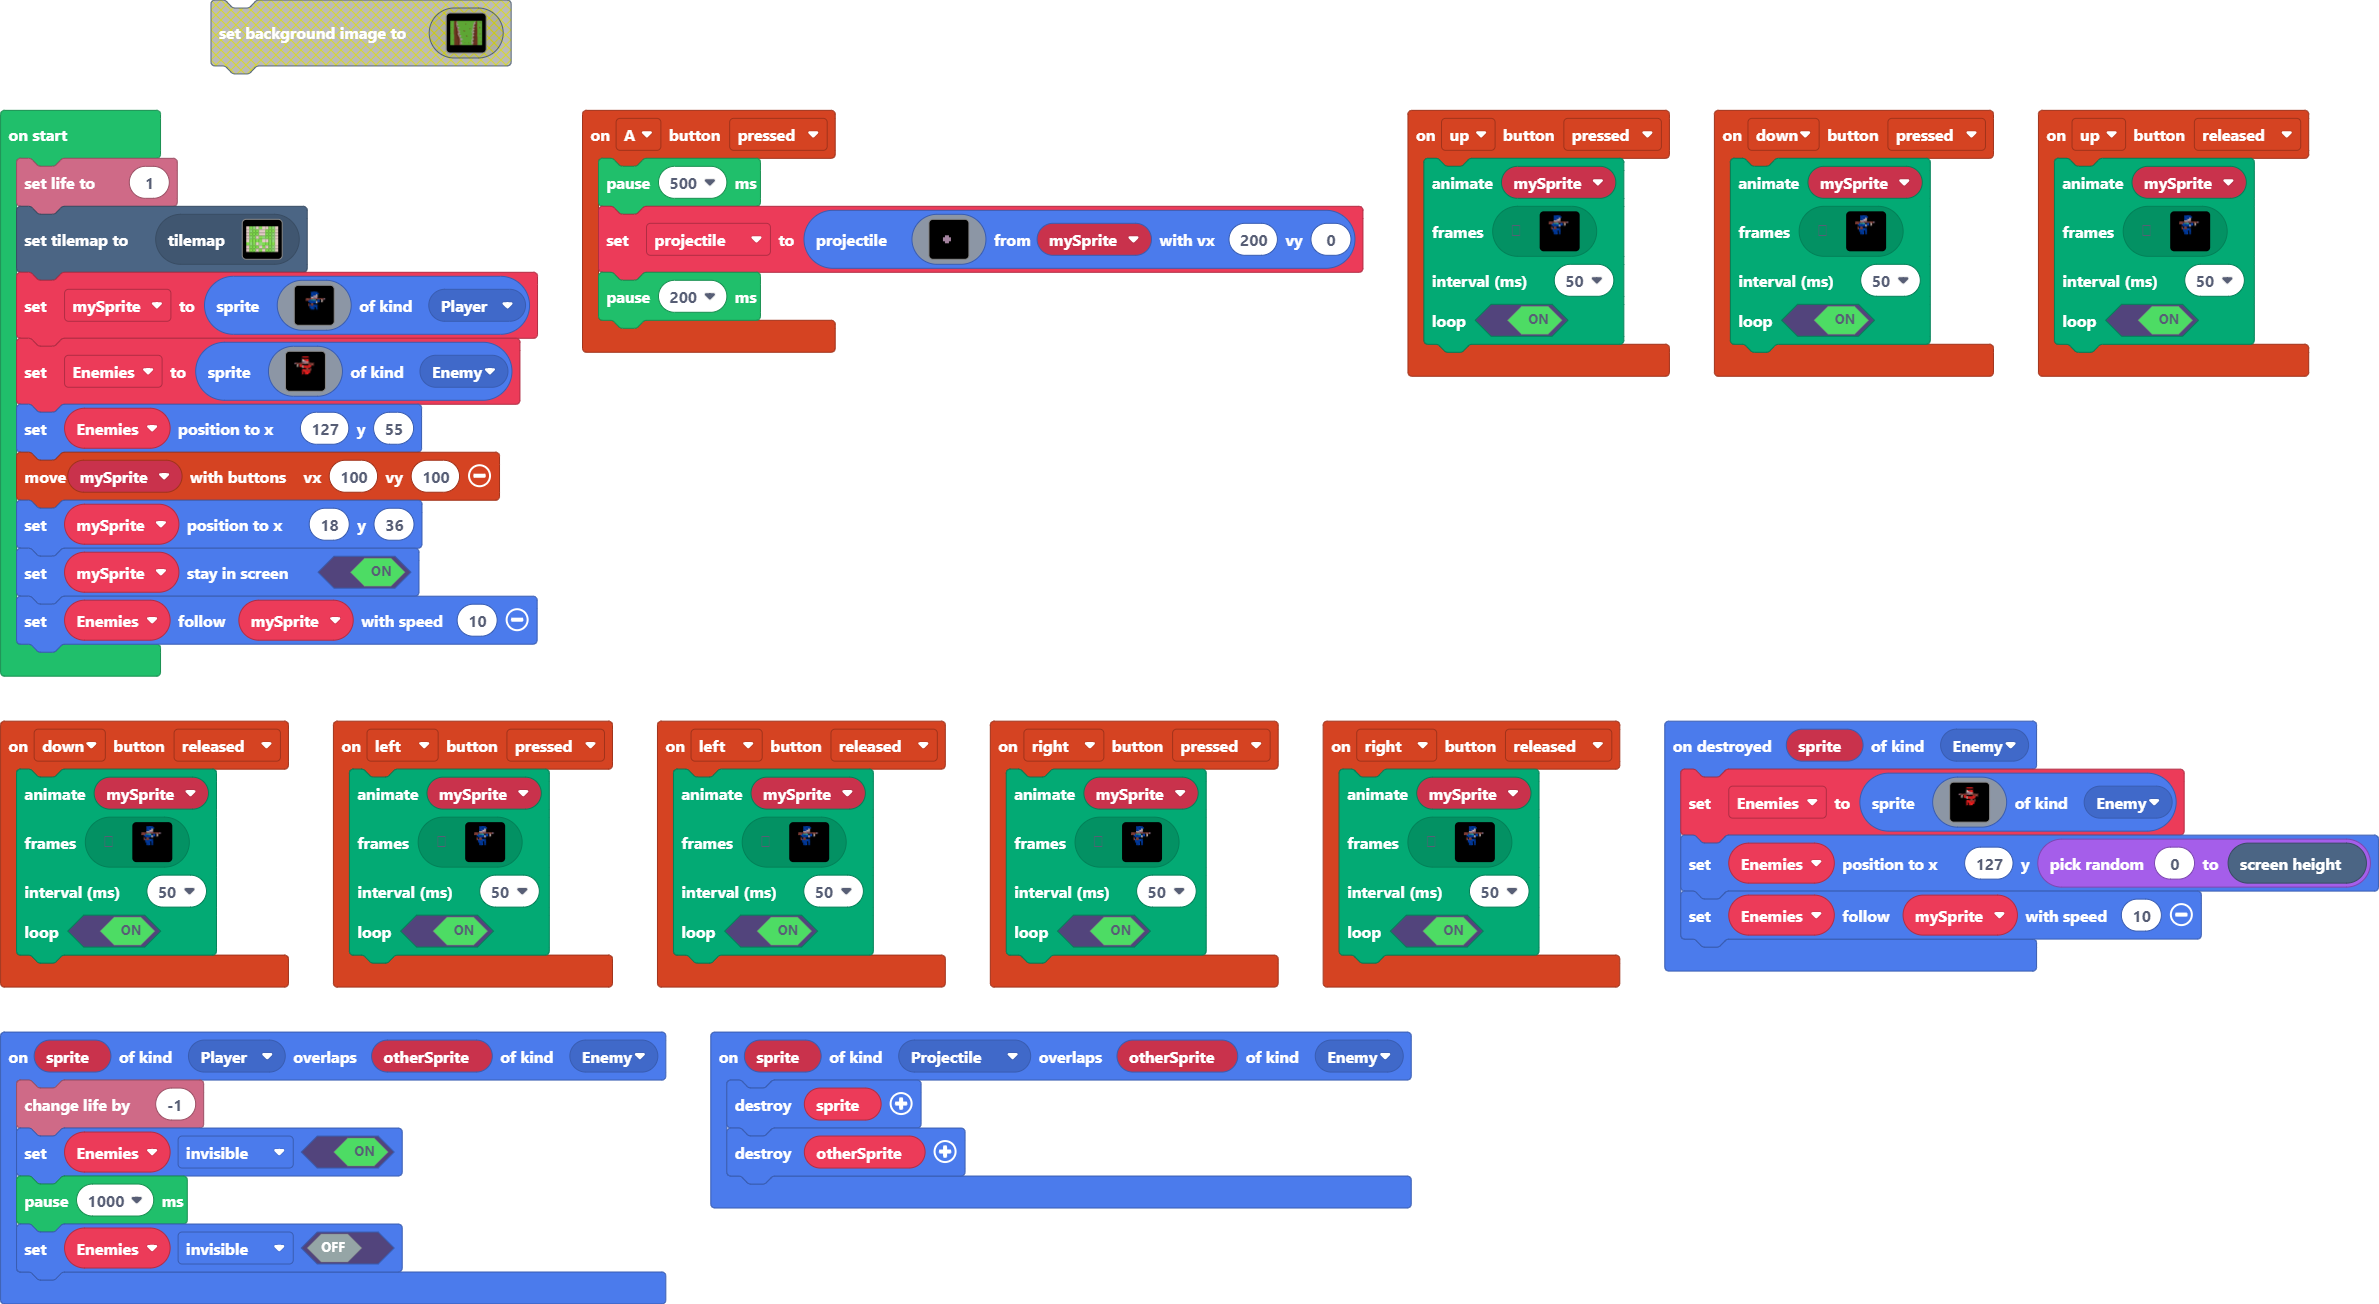
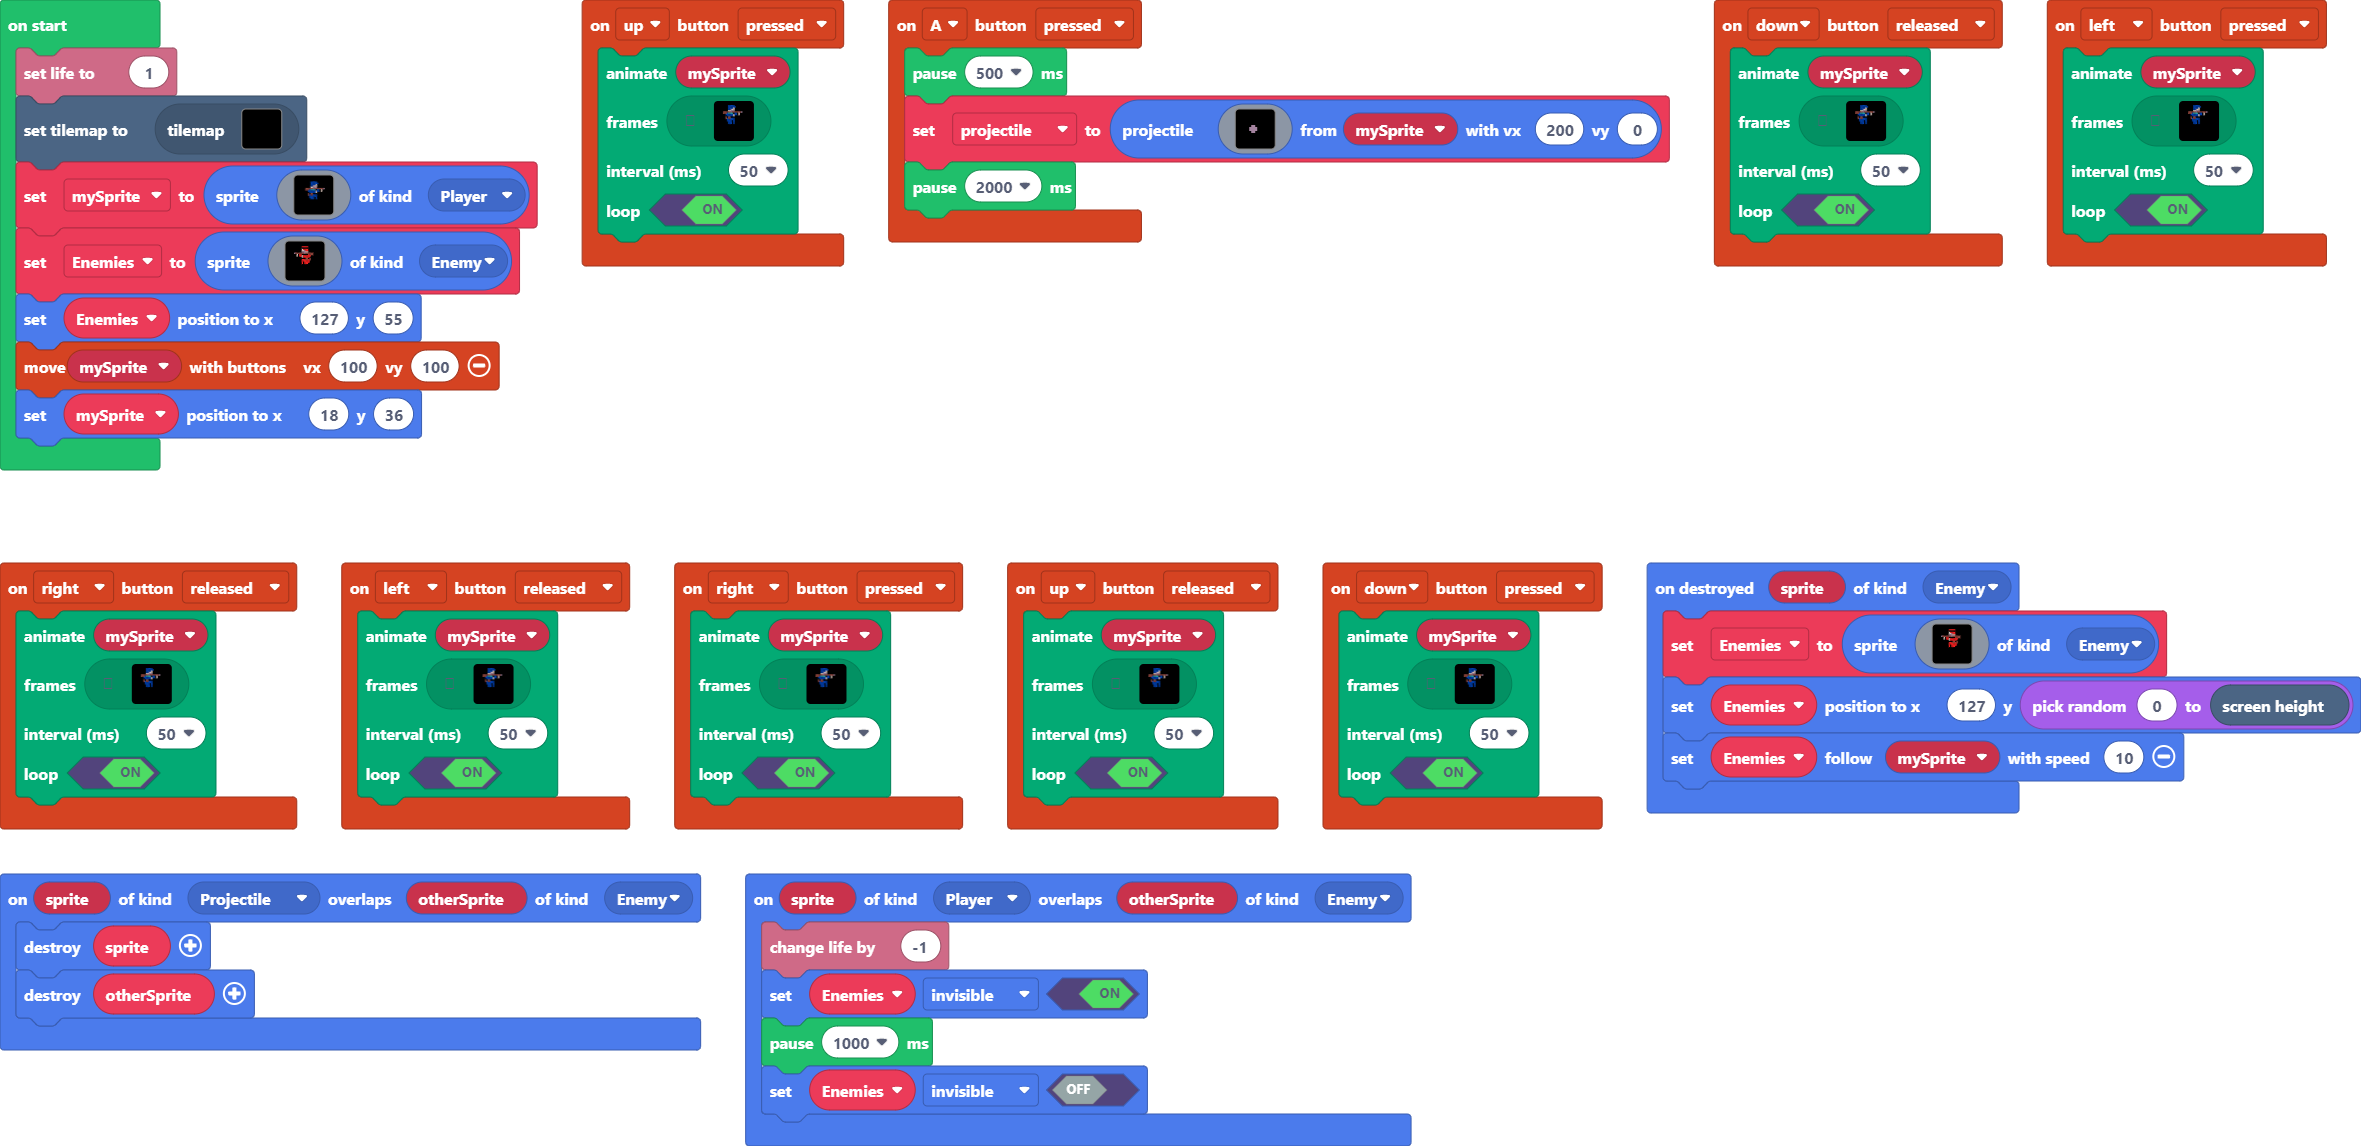
Update pxt.json, main.blocks, main.ts, tilemap.g.jres, tilemap.g.ts

diff --git a/tilemap.g.ts b/tilemap.g.ts
@@ -1,0 +1,30 @@
+// Auto-generated code. Do not edit.
+namespace myTiles {
+
+    helpers._registerFactory("tilemap", function(name: string) {
+        switch(helpers.stringTrim(name)) {
+            case "level1":
+            case "level1":return tiles.createTilemap(hex`1000100000000000000000000000000000000000000000000000000000000000000000000000000000000000000000000000000000000000000000000000000000000000000000000000000000000000000000000000000000000000000000000000000000000000000000000000000000000000000000000000000000000000000000000000000000000000000000000000000000000000000000000000000000000000000000000000000000000000000000000000000000000000000000000000000000000000000000000000000000000000000000000000000000000000000000000000000000000000000000000000000000000000000000000000000000000000`, img`
+. . . . . . . . . . . . . . . . 
+. . . . . . . . . . . . . . . . 
+. . . . . . . . . . . . . . . . 
+. . . . . . . . . . . . . . . . 
+. . . . . . . . . . . . . . . . 
+. . . . . . . . . . . . . . . . 
+. . . . . . . . . . . . . . . . 
+. . . . . . . . . . . . . . . . 
+. . . . . . . . . . . . . . . . 
+. . . . . . . . . . . . . . . . 
+. . . . . . . . . . . . . . . . 
+. . . . . . . . . . . . . . . . 
+. . . . . . . . . . . . . . . . 
+. . . . . . . . . . . . . . . . 
+. . . . . . . . . . . . . . . . 
+. . . . . . . . . . . . . . . . 
+`, [], -Infinity);
+        }
+        return null;
+    })
+
+}
+// Auto-generated code. Do not edit.

diff --git a/main.ts b/main.ts
@@ -395,5 +395,3 @@ Enemies = sprites.create(img`
 Enemies.setPosition(127, 55)
 controller.moveSprite(mySprite, 100, 100)
 mySprite.setPosition(18, 36)
-mySprite.setStayInScreen(true)
-Enemies.follow(mySprite, 10)
